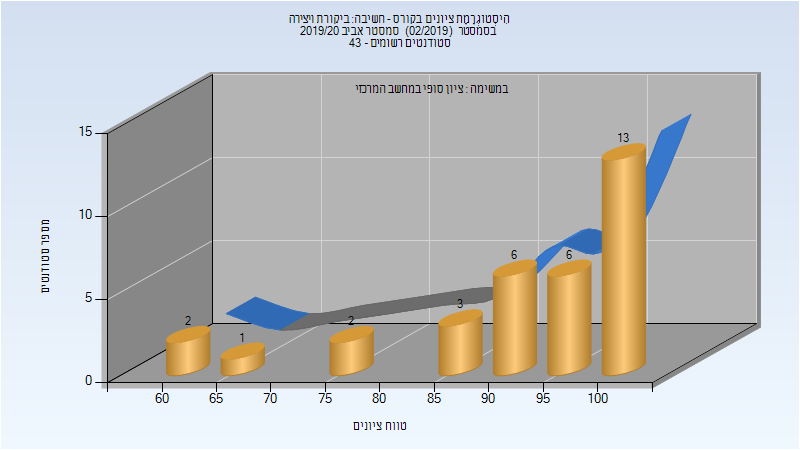
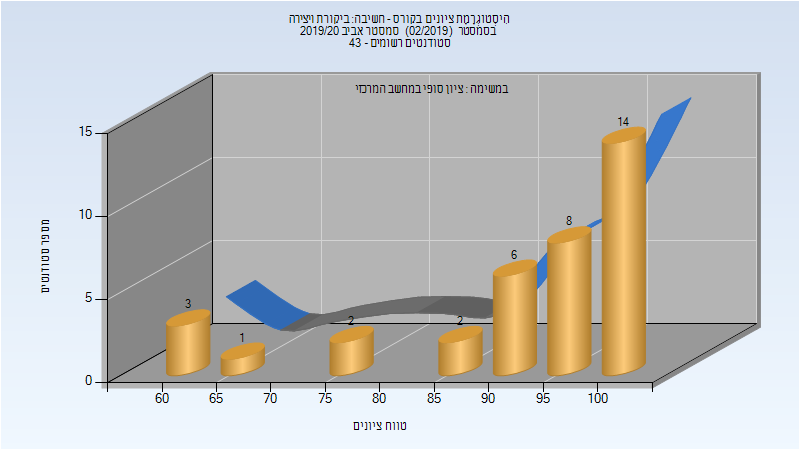
Deploy michael-maltsev/technion-histograms to github.com/michael-maltsev/technion-histograms.git:gh-pages

diff --git a/324456/index.html b/324456/index.html
@@ -544,12 +544,12 @@
 </thead>
 <tbody>
 <tr>
-<td>33</td>
-<td>33/0</td>
+<td>36</td>
+<td>36/0</td>
 <td>100</td>
-<td>63</td>
+<td>60</td>
 <td>100</td>
-<td>92.152</td>
+<td>91.833</td>
 <td>95</td>
 </tr>
 </tbody>

diff --git a/324456/README.md b/324456/README.md
@@ -168,5 +168,5 @@
 
 | סטודנטים | עברו/נכשלו | אחוז עוברים | ציון מינימלי | ציון מקסימלי | ממוצע | חציון |
 | ---- | ---- | ---- | ---- | ---- | ---- | ---- |
-| 33 | 33/0 | 100 | 63 | 100 | 92.152 | 95 |
+| 36 | 36/0 | 100 | 60 | 100 | 91.833 | 95 |
 
